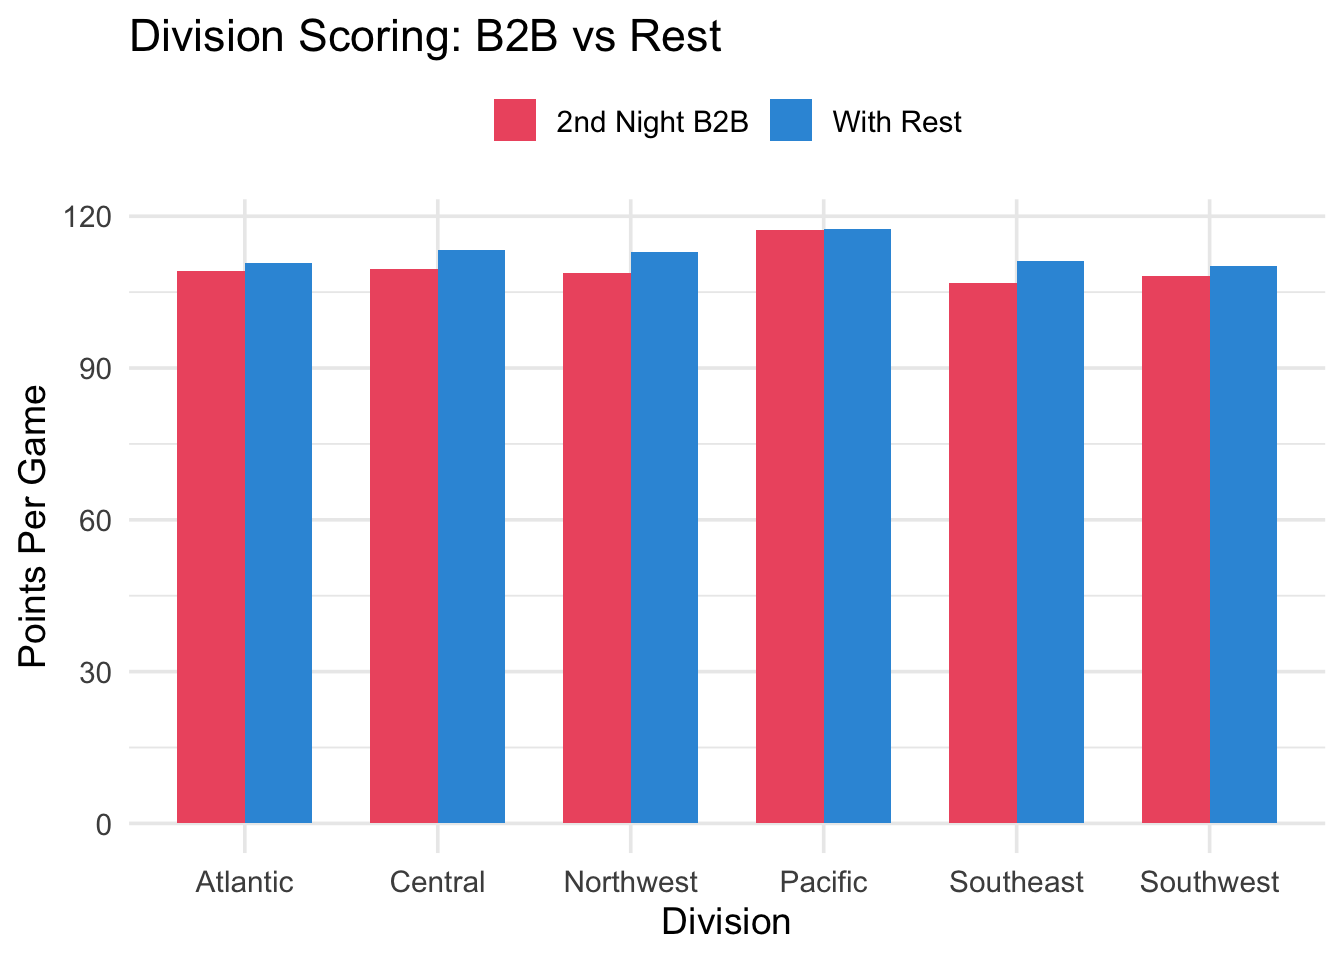
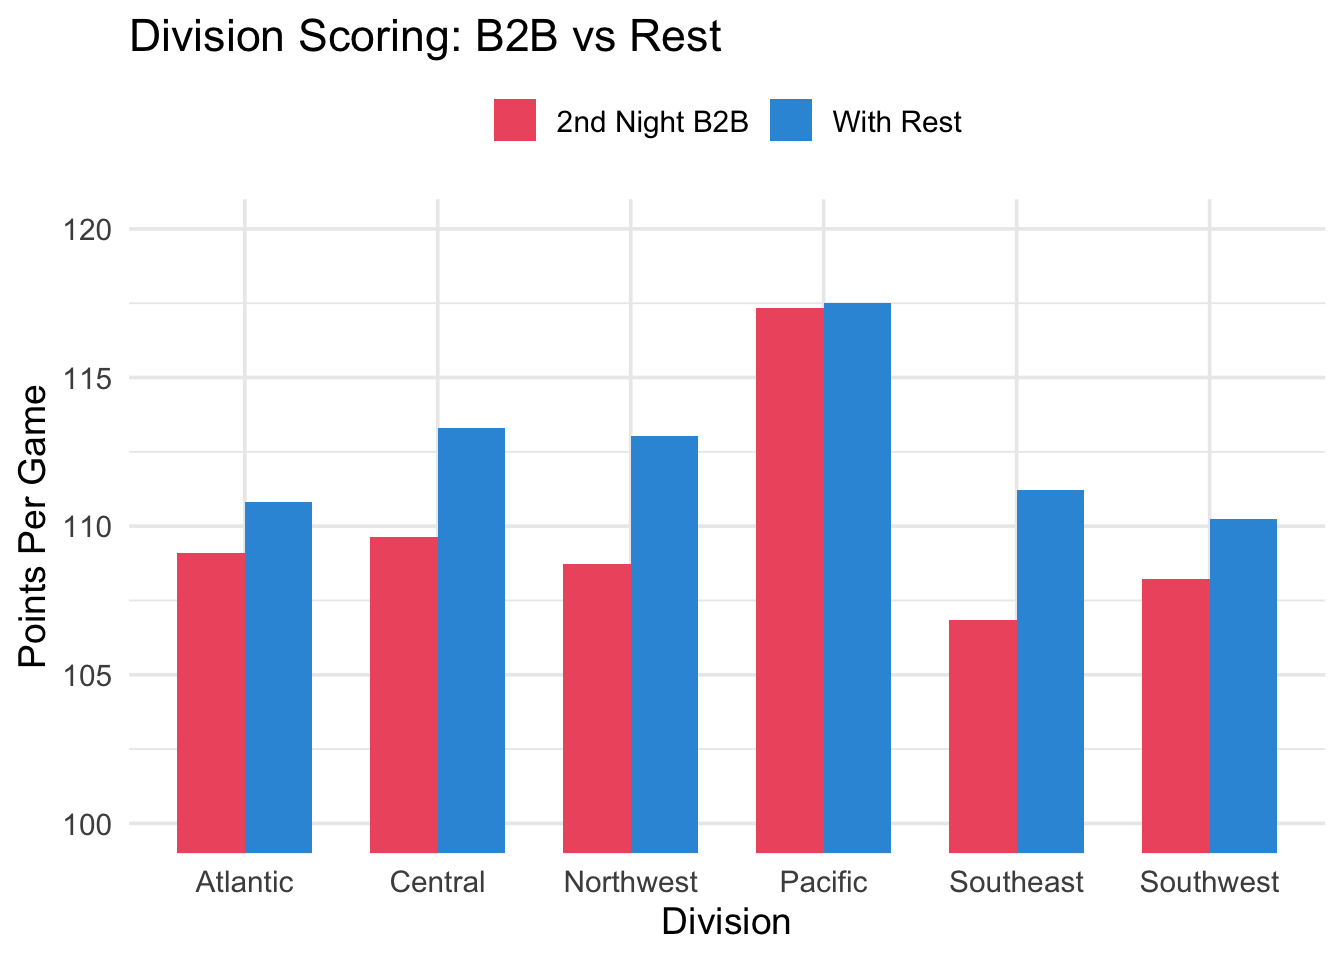
chart

diff --git a/17170/1111/17/victor-wembanyama-s-defensive-pace-versus-legends-and-current-trajectory/index.html b/17170/1111/17/victor-wembanyama-s-defensive-pace-versus-legends-and-current-trajectory/index.html
@@ -256,10 +256,8 @@
 <p>For this scatterplot, I wanted to focus on the Spurs defensive rating with Wembanyama on the court as well as without Wembanyama on the court, and compare that to the rest of the defensive ratings in the NBA. Being so early into this current season, I decided to dive into the 2024-2025 season to look at these statistics. It is also worth noting that Wembanyama missed the last two months of the season, so that made for a sizable sample size in terms of the numbers both ways for the San Antonio Spurs.</p>
 <div class="highlight"><pre tabindex="0" style="color:#f8f8f2;background-color:#272822;-moz-tab-size:4;-o-tab-size:4;tab-size:4;"><code class="language-r" data-lang="r"><span style="display:flex;"><span><span style="color:#75715e"># NBA Division PPG - FIXED for RStudio Viewer</span>
 </span></span><span style="display:flex;"><span><span style="color:#75715e"># This should display bars properly</span>
-</span></span><span style="display:flex;"><span>
 </span></span><span style="display:flex;"><span><span style="color:#a6e22e">library</span>(tidyverse)
 </span></span><span style="display:flex;"><span><span style="color:#a6e22e">library</span>(lubridate)
-</span></span><span style="display:flex;"><span>
 </span></span><span style="display:flex;"><span><span style="color:#a6e22e">setwd</span>(<span style="color:#e6db74">&#34;~/Documents&#34;</span>)
 </span></span><span style="display:flex;"><span>
 </span></span><span style="display:flex;"><span><span style="color:#75715e"># Load data</span>
@@ -282,6 +280,7 @@
 </span></span><span style="display:flex;"><span>)
 </span></span><span style="display:flex;"><span>
 </span></span><span style="display:flex;"><span>all_data <span style="color:#f92672">&lt;-</span> <span style="color:#a6e22e">data.frame</span>()
+</span></span><span style="display:flex;"><span>
 </span></span><span style="display:flex;"><span><span style="color:#66d9ef">for</span>(team_info <span style="color:#66d9ef">in</span> all_teams) {
 </span></span><span style="display:flex;"><span>  <span style="color:#66d9ef">if</span>(<span style="color:#f92672">!</span><span style="color:#a6e22e">file.exists</span>(team_info<span style="color:#f92672">$</span>file)) <span style="color:#66d9ef">next</span>
 </span></span><span style="display:flex;"><span>  team_data <span style="color:#f92672">&lt;-</span> <span style="color:#a6e22e">read.csv</span>(team_info<span style="color:#f92672">$</span>file, skip <span style="color:#f92672">=</span> <span style="color:#ae81ff">1</span>, stringsAsFactors <span style="color:#f92672">=</span> <span style="color:#66d9ef">FALSE</span>)
@@ -342,11 +341,13 @@
 ## 11 Southwest B2B        108.
 ## 12 Southwest Rest       110.
 </code></pre><div class="highlight"><pre tabindex="0" style="color:#f8f8f2;background-color:#272822;-moz-tab-size:4;-o-tab-size:4;tab-size:4;"><code class="language-r" data-lang="r"><span style="display:flex;"><span><span style="color:#a6e22e">cat</span>(<span style="color:#e6db74">&#34;\n&#34;</span>)
-</span></span></code></pre></div><div class="highlight"><pre tabindex="0" style="color:#f8f8f2;background-color:#272822;-moz-tab-size:4;-o-tab-size:4;tab-size:4;"><code class="language-r" data-lang="r"><span style="display:flex;"><span><span style="color:#75715e"># Create simple plot - NO LIMITS</span>
+</span></span></code></pre></div><div class="highlight"><pre tabindex="0" style="color:#f8f8f2;background-color:#272822;-moz-tab-size:4;-o-tab-size:4;tab-size:4;"><code class="language-r" data-lang="r"><span style="display:flex;"><span><span style="color:#75715e"># Create plot - bars visible with zoomed y-axis</span>
 </span></span><span style="display:flex;"><span>p <span style="color:#f92672">&lt;-</span> <span style="color:#a6e22e">ggplot</span>(summary_data, <span style="color:#a6e22e">aes</span>(x <span style="color:#f92672">=</span> Division, y <span style="color:#f92672">=</span> PPG, fill <span style="color:#f92672">=</span> Game_Type)) <span style="color:#f92672">+</span>
 </span></span><span style="display:flex;"><span>  <span style="color:#a6e22e">geom_col</span>(position <span style="color:#f92672">=</span> <span style="color:#e6db74">&#34;dodge&#34;</span>, width <span style="color:#f92672">=</span> <span style="color:#ae81ff">0.7</span>) <span style="color:#f92672">+</span>
 </span></span><span style="display:flex;"><span>  <span style="color:#a6e22e">scale_fill_manual</span>(values <span style="color:#f92672">=</span> <span style="color:#a6e22e">c</span>(<span style="color:#e6db74">&#34;B2B&#34;</span> <span style="color:#f92672">=</span> <span style="color:#e6db74">&#34;#EE5A6F&#34;</span>, <span style="color:#e6db74">&#34;Rest&#34;</span> <span style="color:#f92672">=</span> <span style="color:#e6db74">&#34;#3498DB&#34;</span>),
 </span></span><span style="display:flex;"><span>                    labels <span style="color:#f92672">=</span> <span style="color:#a6e22e">c</span>(<span style="color:#e6db74">&#34;B2B&#34;</span> <span style="color:#f92672">=</span> <span style="color:#e6db74">&#34;2nd Night B2B&#34;</span>, <span style="color:#e6db74">&#34;Rest&#34;</span> <span style="color:#f92672">=</span> <span style="color:#e6db74">&#34;With Rest&#34;</span>)) <span style="color:#f92672">+</span>
+</span></span><span style="display:flex;"><span>  <span style="color:#a6e22e">scale_y_continuous</span>(breaks <span style="color:#f92672">=</span> <span style="color:#a6e22e">seq</span>(<span style="color:#ae81ff">100</span>, <span style="color:#ae81ff">120</span>, <span style="color:#ae81ff">5</span>)) <span style="color:#f92672">+</span>
+</span></span><span style="display:flex;"><span>  <span style="color:#a6e22e">coord_cartesian</span>(ylim <span style="color:#f92672">=</span> <span style="color:#a6e22e">c</span>(<span style="color:#ae81ff">100</span>, <span style="color:#ae81ff">120</span>)) <span style="color:#f92672">+</span>
 </span></span><span style="display:flex;"><span>  <span style="color:#a6e22e">labs</span>(title <span style="color:#f92672">=</span> <span style="color:#e6db74">&#34;Division Scoring: B2B vs Rest&#34;</span>,
 </span></span><span style="display:flex;"><span>       y <span style="color:#f92672">=</span> <span style="color:#e6db74">&#34;Points Per Game&#34;</span>, 
 </span></span><span style="display:flex;"><span>       x <span style="color:#f92672">=</span> <span style="color:#e6db74">&#34;Division&#34;</span>, 
